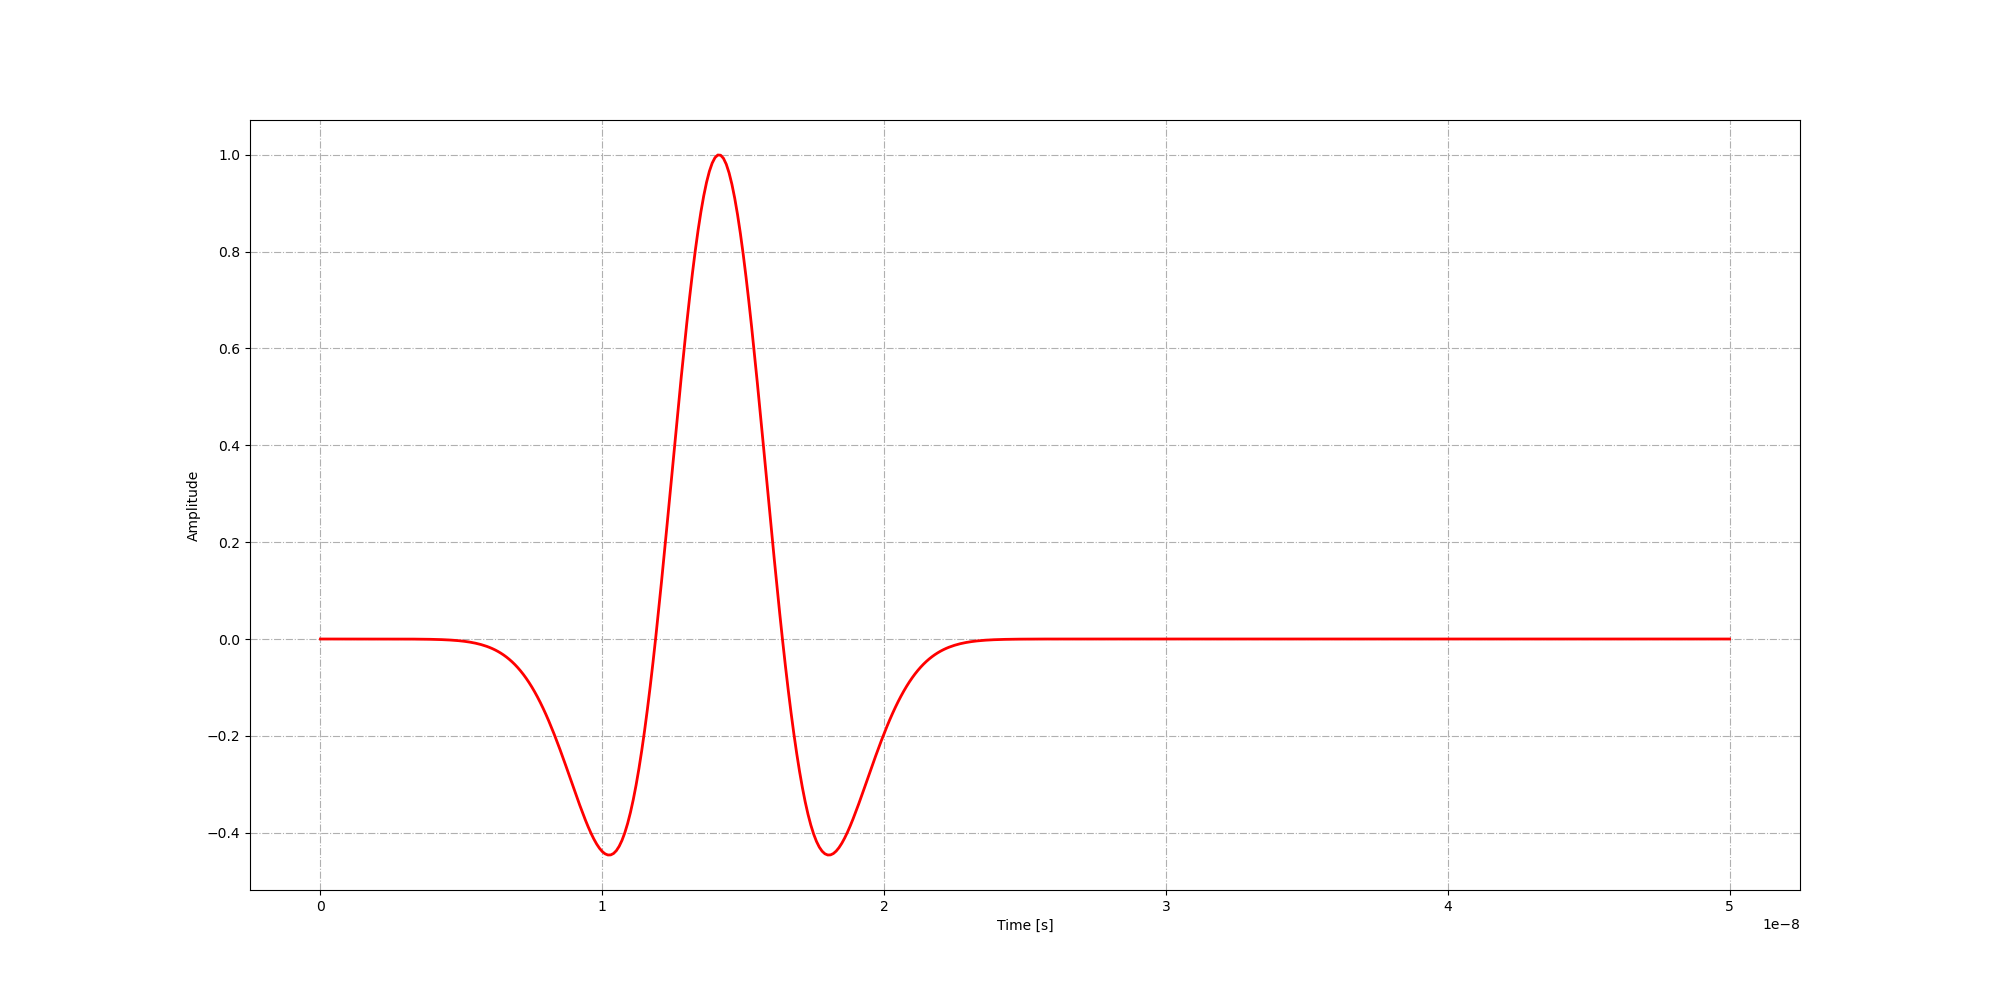
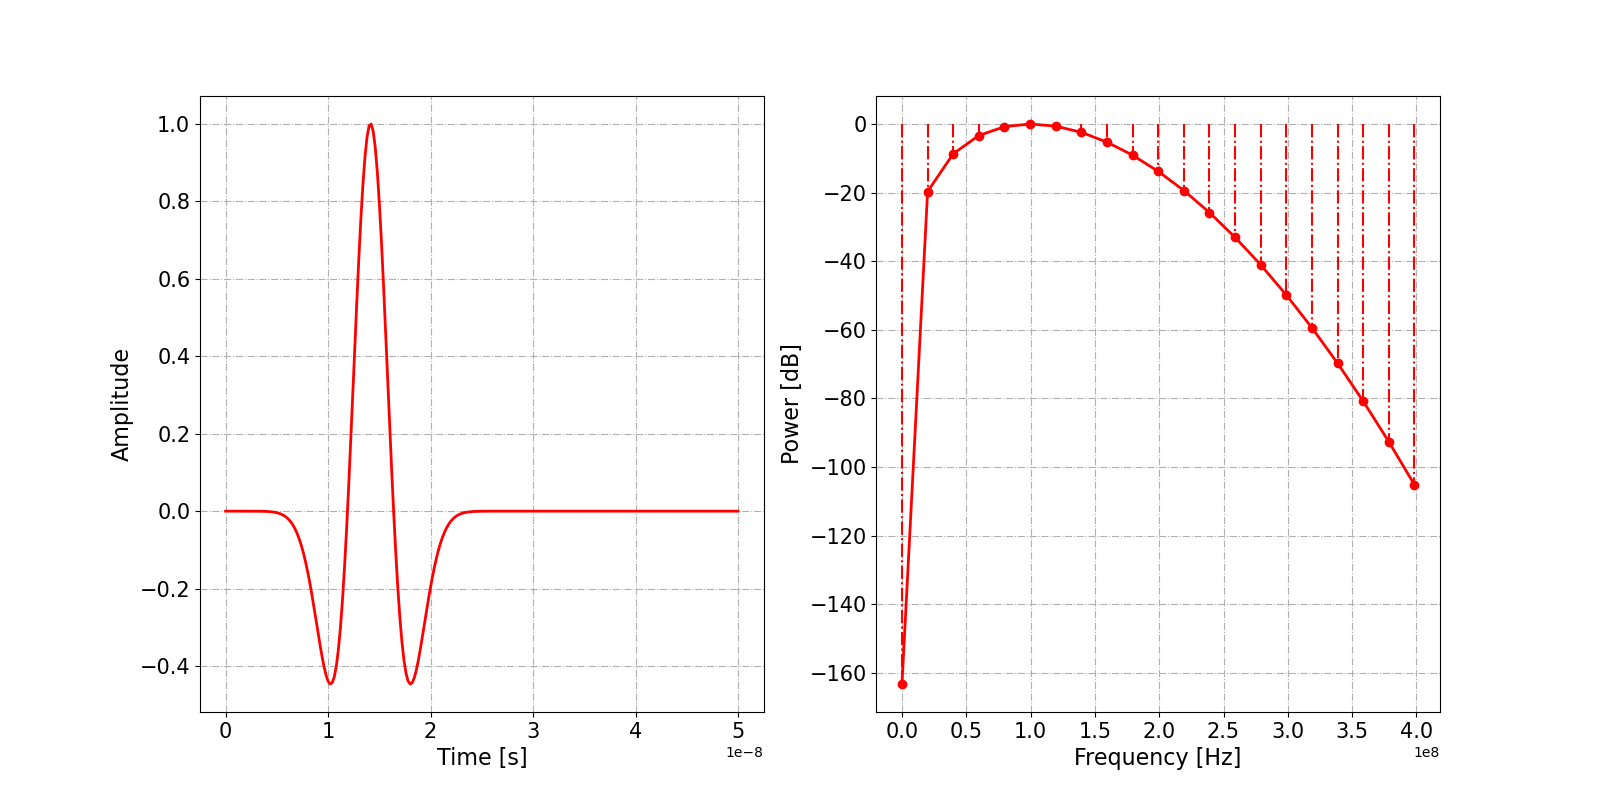
plot_source_wave

diff --git a/tools/plot_source_wave.py b/tools/plot_source_wave.py
@@ -111,12 +111,12 @@ def mpl_plot(w, timewindow, dt, iterations, fft=False):
             pltrange = np.where(freqs > 4 * w.freq)[0][0]
         pltrange = np.s_[0:pltrange]
 
-        fig, (ax1, ax2) = plt.subplots(nrows=1, ncols=2, num=w.type, figsize=(20, 10), facecolor='w', edgecolor='w')
+        fig, (ax1, ax2) = plt.subplots(nrows=1, ncols=2, num=w.type, figsize=(16, 8), facecolor='w', edgecolor='w')
 
         # Plot waveform
         ax1.plot(time, waveform, 'r', lw=2)
-        ax1.set_xlabel('Time [s]', size=20)
-        ax1.set_ylabel('Amplitude', size=20)
+        ax1.set_xlabel('Time [s]', size=16)
+        ax1.set_ylabel('Amplitude', size=16)
 
         # Plot frequency spectra
         markerline, stemlines, baseline = ax2.stem(freqs[pltrange], power[pltrange], '-.', use_line_collection=True)
@@ -124,17 +124,17 @@ def mpl_plot(w, timewindow, dt, iterations, fft=False):
         plt.setp(stemlines, 'color', 'r')
         plt.setp(markerline, 'markerfacecolor', 'r', 'markeredgecolor', 'r')
         ax2.plot(freqs[pltrange], power[pltrange], 'r', lw=2)
-        ax2.set_xlabel('Frequency [Hz]', size=20)
-        ax2.set_ylabel('Power [dB]', size=20)
+        ax2.set_xlabel('Frequency [Hz]', size=16)
+        ax2.set_ylabel('Power [dB]', size=16)
 
         # メモリサイズの変更
-        ax1.tick_params(labelsize=18)
-        ax2.tick_params(labelsize=18)
+        ax1.tick_params(labelsize=15)
+        ax2.tick_params(labelsize=15)
 
         
 
     else:
-        fig, ax1 = plt.subplots(num=w.type, figsize=(20, 10), facecolor='w', edgecolor='w')
+        fig, ax1 = plt.subplots(num=w.type, figsize=(16, 8), facecolor='w', edgecolor='w')
 
         # Plot waveform
         ax1.plot(time, waveform, 'r', lw=2)
